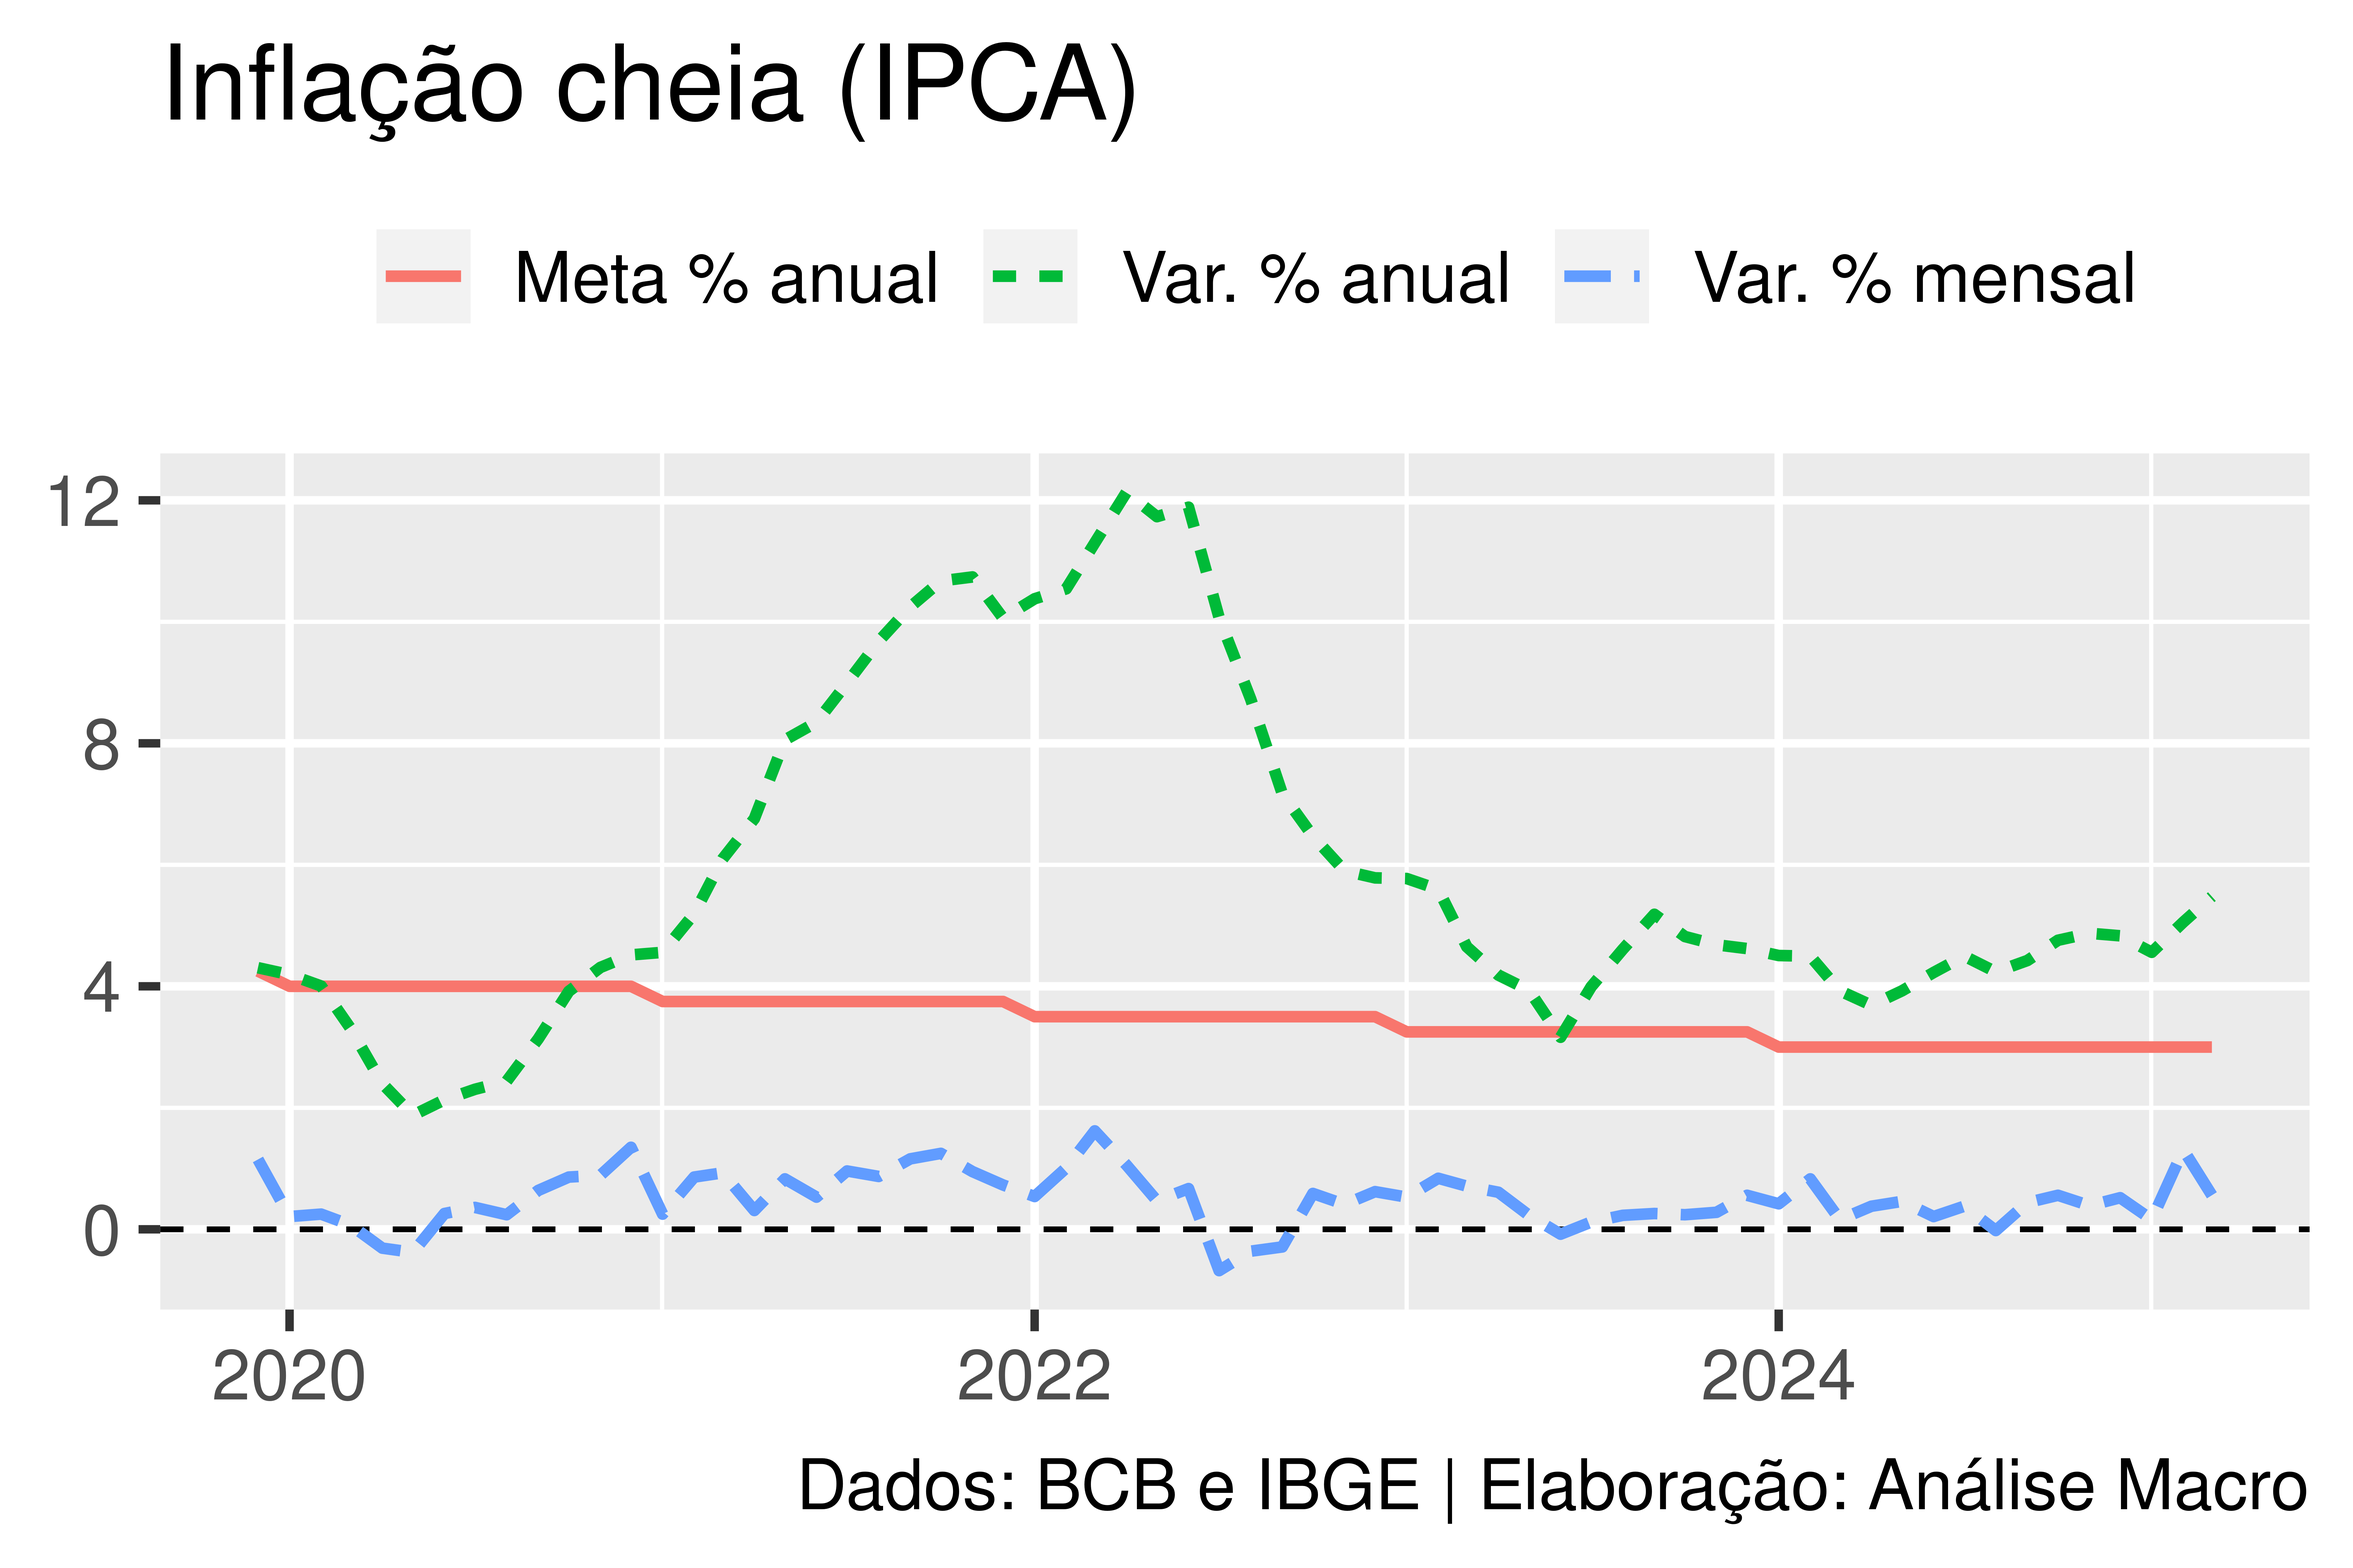
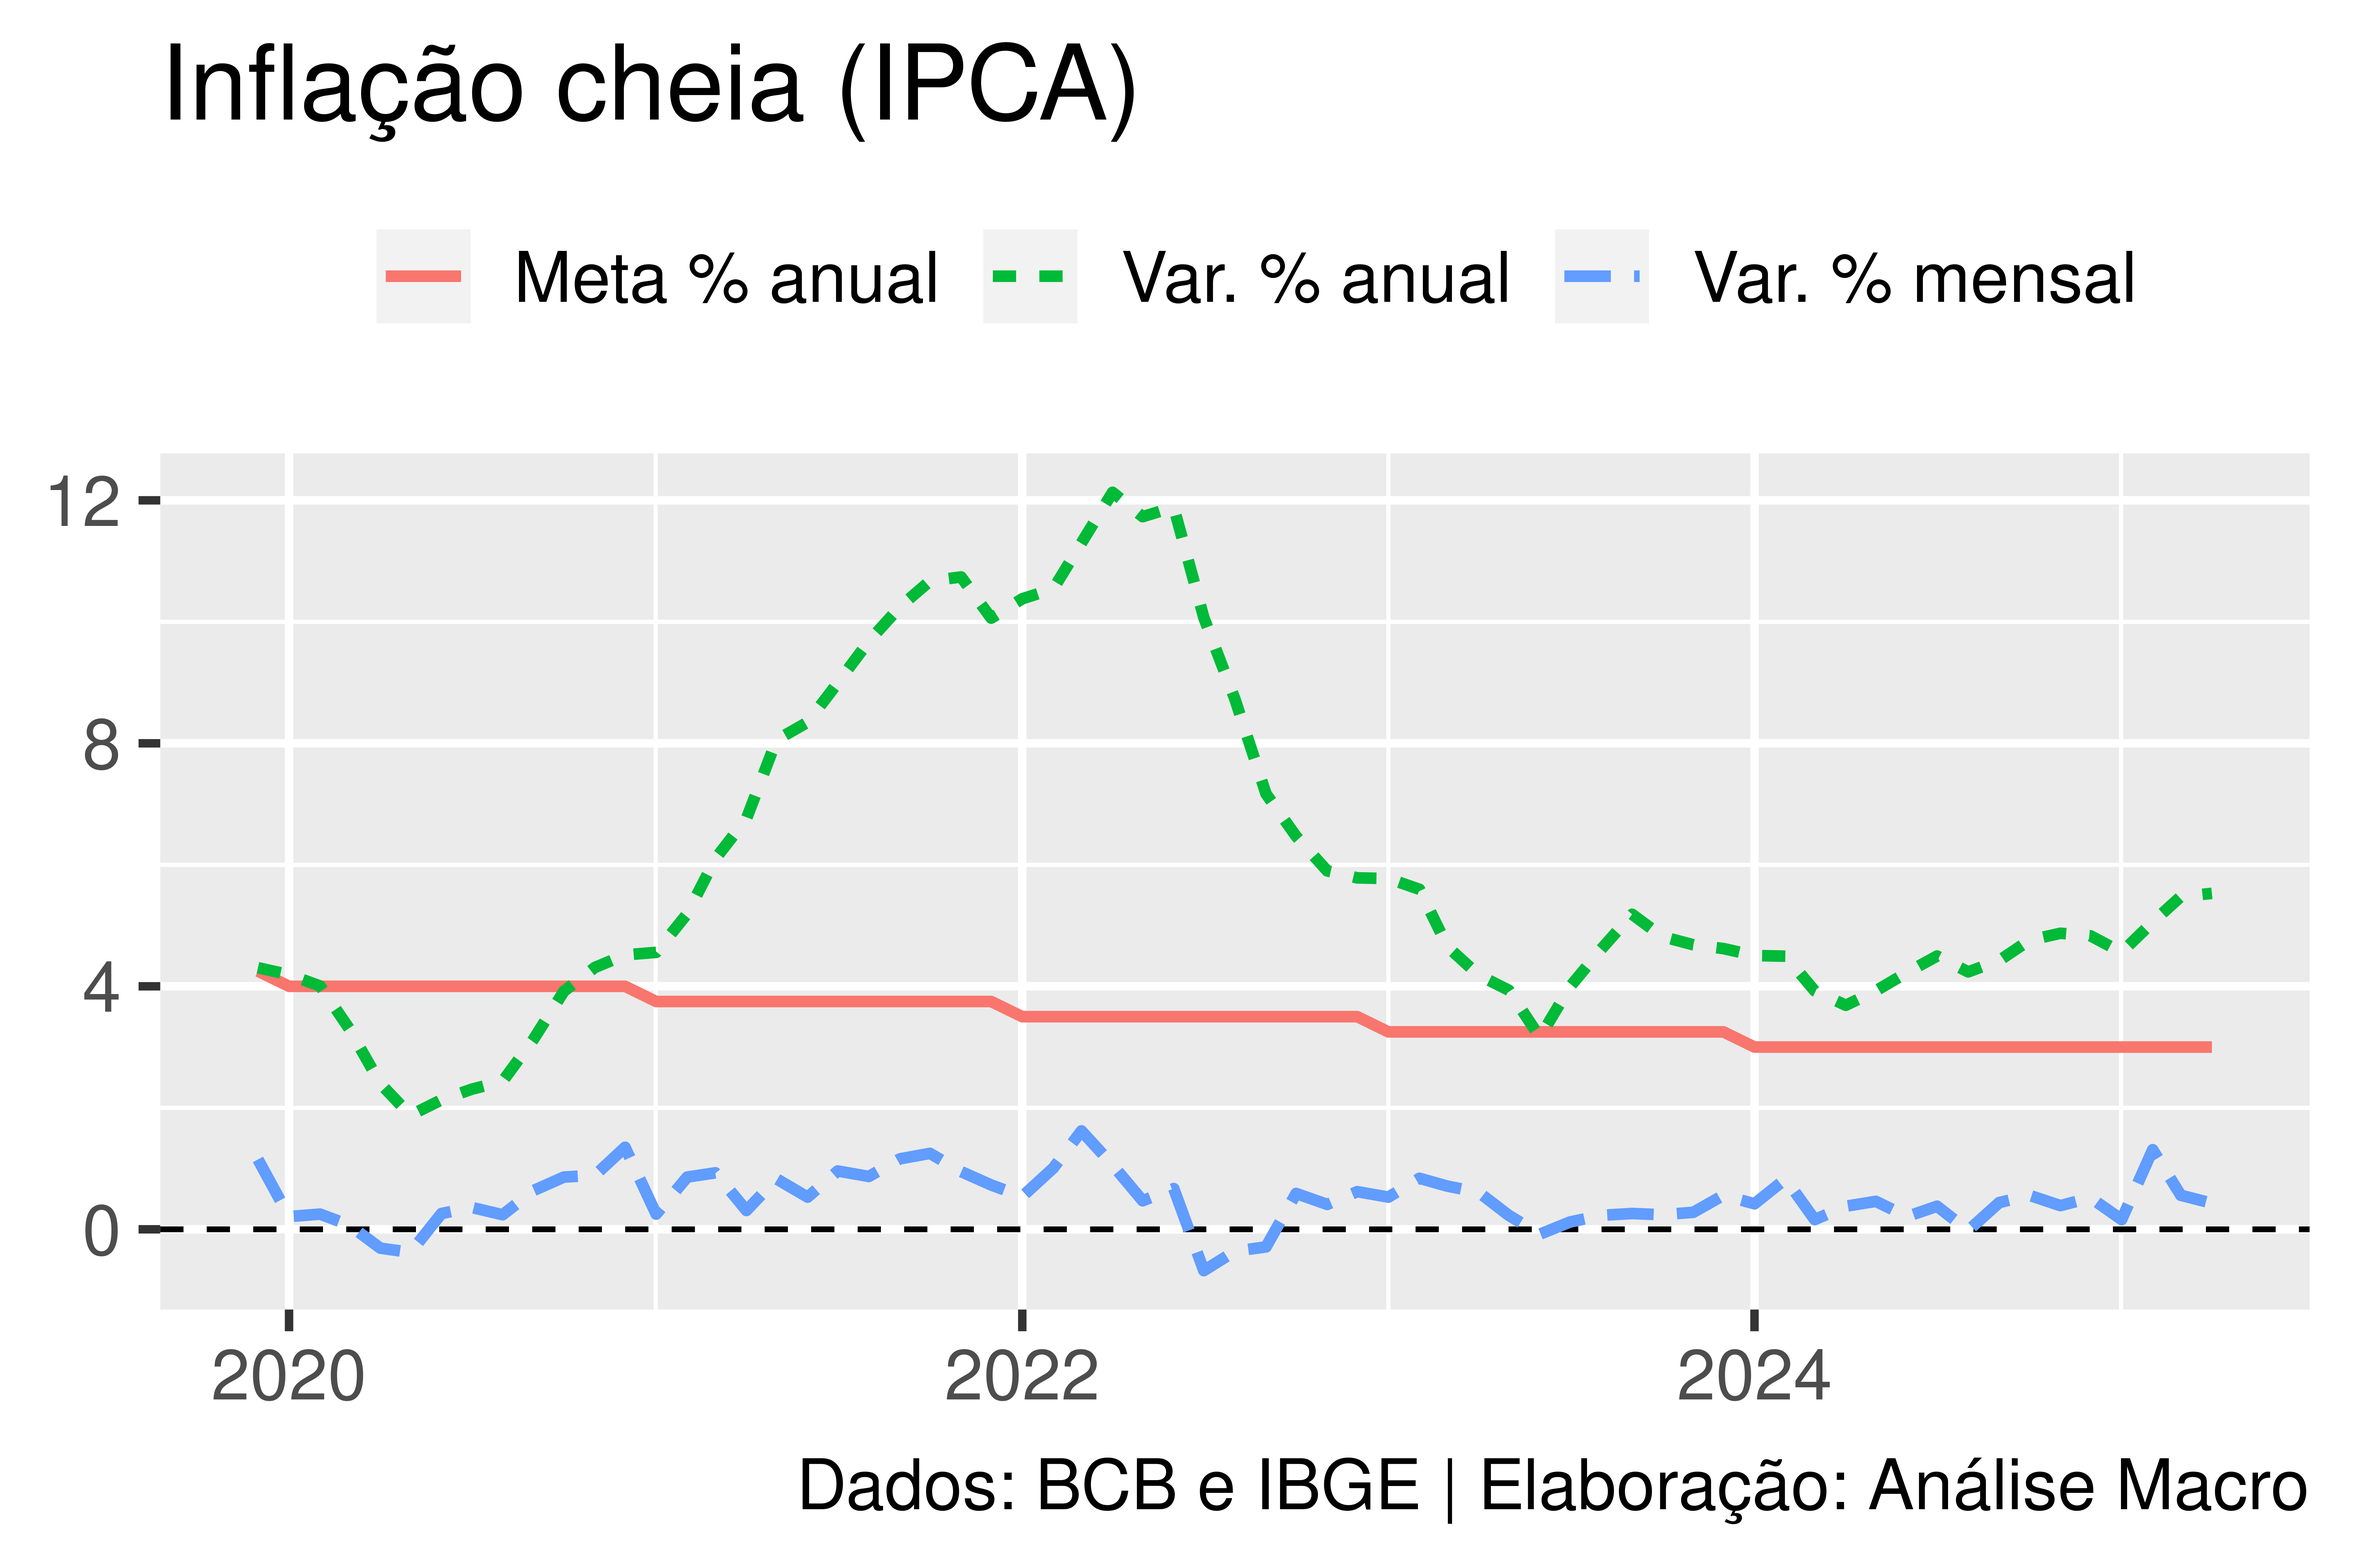
Atualização de relatório automatizada

diff --git a/relatório_ipca/ipca.html b/relatório_ipca/ipca.html
@@ -79,8 +79,8 @@ ul.task-list li input[type="checkbox"] {
 <h2 class="anchored" data-anchor-id="inflação-cheia">Inflação cheia</h2>
 <p>Principais destaques para o Índice nacional de preços ao consumidor-amplo (IPCA):</p>
 <ul>
-<li>O IPCA variou 0,56% no mês de 03/2025 em relação ao mês anterior.</li>
-<li>Em termos anuais, o IPCA acumula 5,48% nos últimos 12 meses.</li>
+<li>O IPCA variou 0,43% no mês de 04/2025 em relação ao mês anterior.</li>
+<li>Em termos anuais, o IPCA acumula 5,53% nos últimos 12 meses.</li>
 <li>Para o ano de 2025 a meta de inflação é de 3,00%. As informações são, quando não explicitamente referenciadas, do IBGE.</li>
 </ul>
 <div class="callout callout-style-default callout-note callout-titled">
